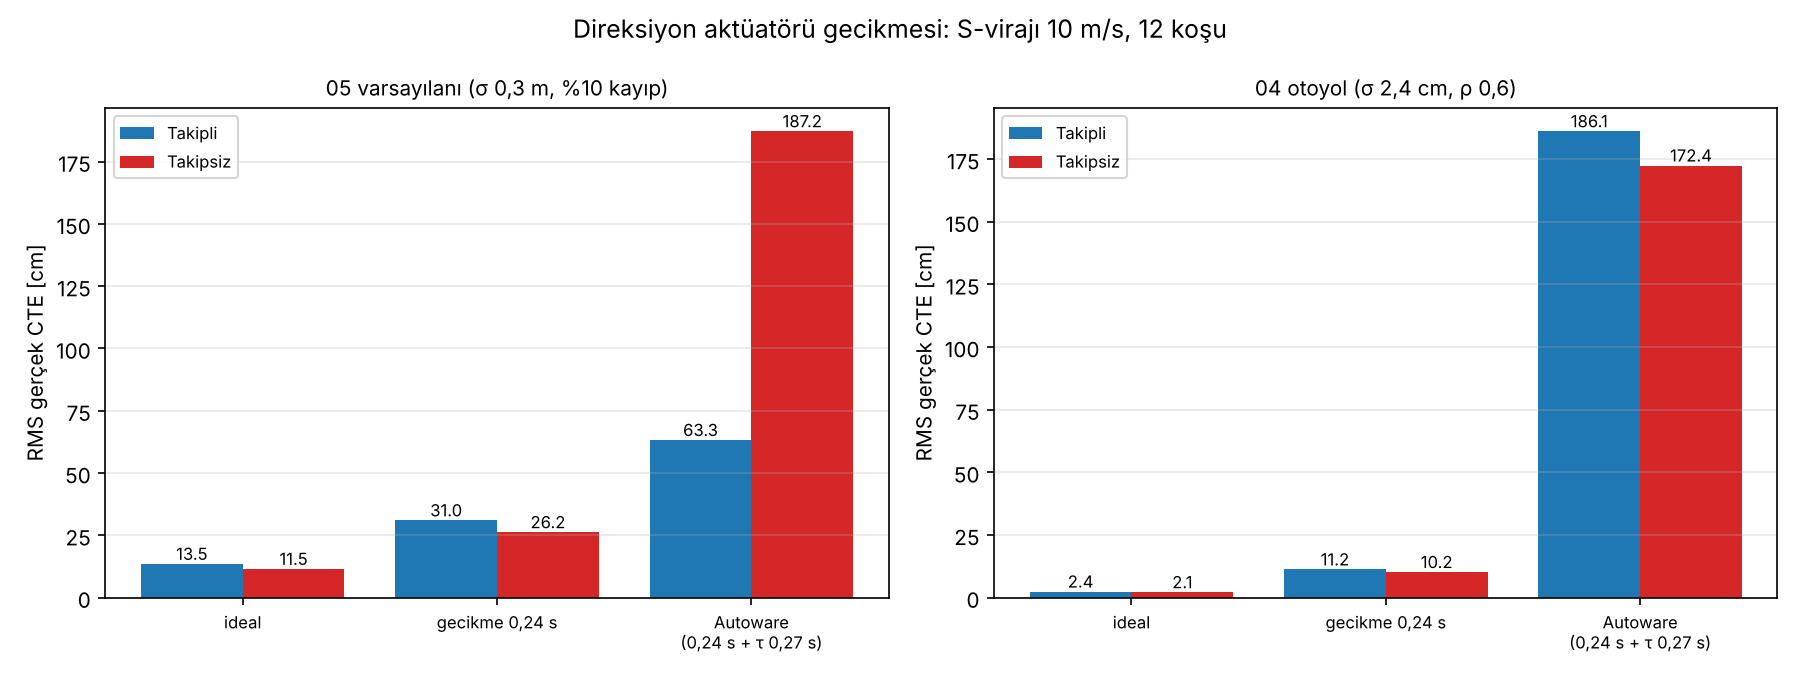
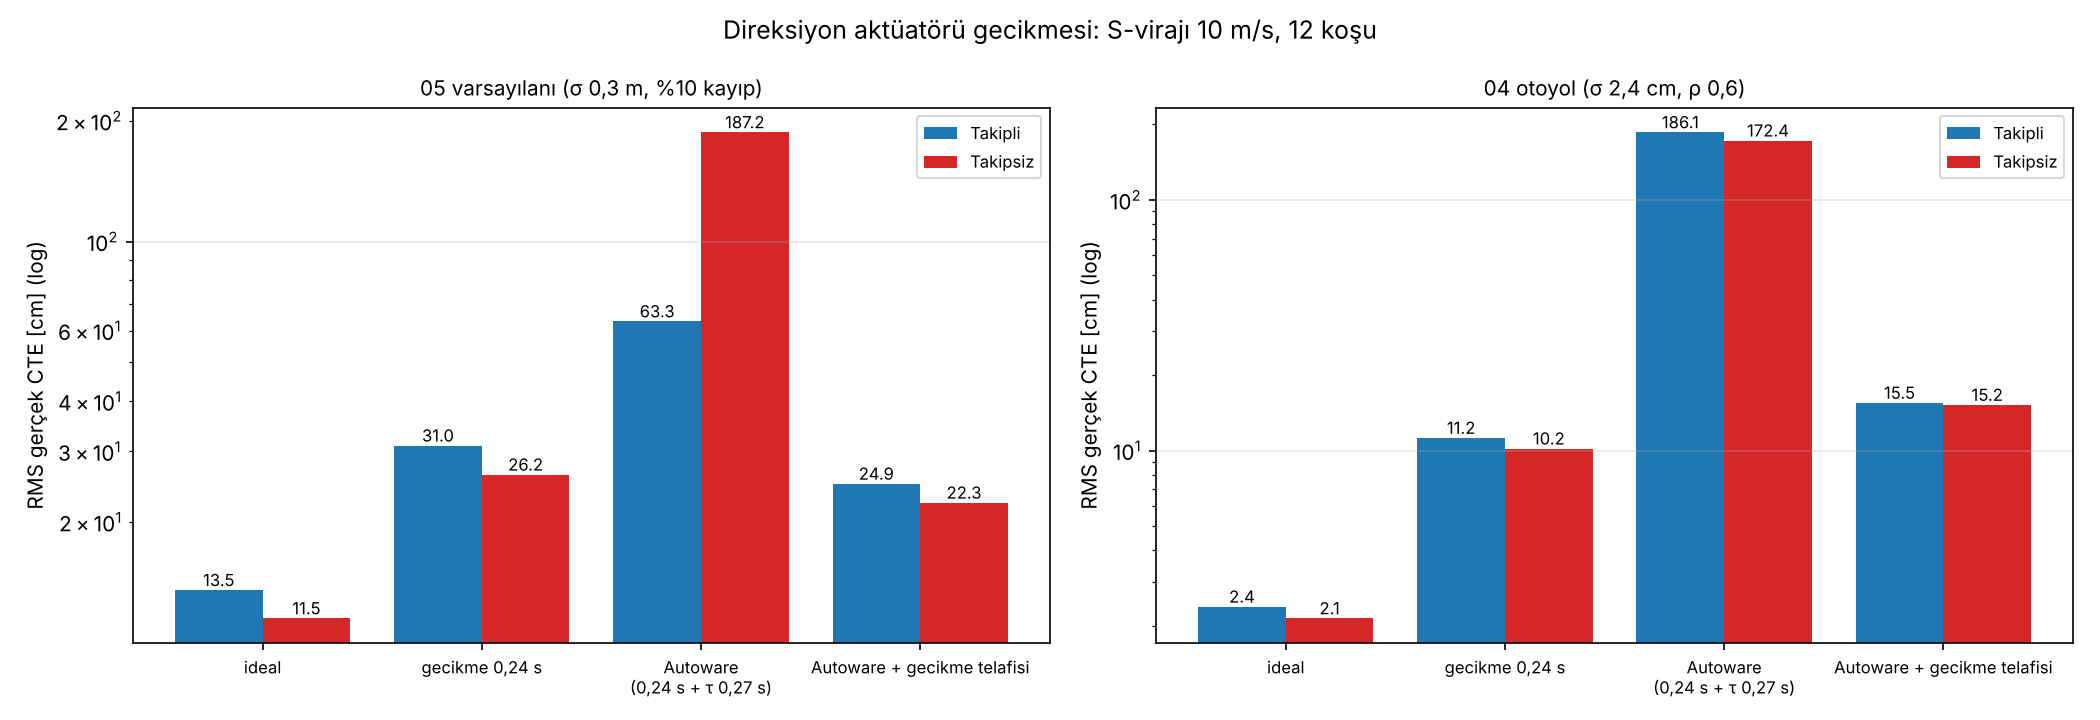
feat(05): delay compensation restores stability with Autoware actuator (8b)
- compensate_delay predicts the lane state through the queued commands and
  the actuator model before computing steering; with it the tracker also
  uses the applied (not commanded) steering
- Autoware actuator: 173 -> 15 cm noise-free, 172-186 -> 15 cm realistic;
  test pins it; actuator_delay.png gains the compensated case
- all next-steps items closed

Claude-Session: https://claude.ai/code/session_01QhUA88VW8MDkroeiZFpYym

diff --git a/05-integration/src/loop.py b/05-integration/src/loop.py
@@ -14,6 +14,17 @@ from perception_sim import NoiseMemory, measure_lane
 TRACKER_Q: tuple[float, float, float] = (0.01, 1e-4, 1e-3)
 
 
+def _predict_through_actuator(x, queue, applied, lag, v, L, dt):
+    """[e_y, e_psi, kappa]'yı kuyruktaki komutlar tekerleğe geçene kadar ileri taşır (küçük açı kinematiği)."""
+    e_y, e_psi, kappa = x
+    a = applied
+    for cmd in queue:
+        a += lag * (cmd - a)
+        e_y += v * e_psi * dt
+        e_psi += (v / L * np.tan(a) - v * kappa) * dt
+    return np.array([e_y, e_psi, kappa])
+
+
 @dataclass
 class IntegrationResult:
     t: np.ndarray
@@ -29,7 +40,7 @@ def run(path, v: float, noise, p_drop: float, use_tracker: bool = True,
         dt: float = 0.05, params: VehicleParams = VehicleParams(),
         tracker_q: tuple[float, float, float] = TRACKER_Q,
         steer_delay: float = 0.0, steer_tau: float = 0.0,
-        tracker_rho: float = 0.0) -> IntegrationResult:
+        tracker_rho: float = 0.0, compensate_delay: bool = False) -> IntegrationResult:
     """dt = kamera periyodu (20 Hz). Araç modeli 01'deki step ile ilerletilir.
 
     use_tracker=False: ölçüm doğrudan kontrolcüye gider; ölçüm yoksa son ölçüm tutulur.
@@ -39,6 +50,10 @@ def run(path, v: float, noise, p_drop: float, use_tracker: bool = True,
     `steer_tau` zaman sabitli birinci derece gecikmeyle tekerleğe geçer. Autoware'in MPC ayarları
     0,24 s ve 0,27 s kullanıyor (mpc.param.yaml; 00 notları). `steer` kaydı komutu, araç uygulananı görür.
     Takip katmanı tahminde komutu kullanır (gerçek açıyı bilmez).
+
+    compensate_delay=True (8b, Smith öngörücüsü fikri): kontrolcü, tahmini durumu kuyruktaki komutlar ve aktüatör
+    modeliyle gecikme kadar ileri taşır ve komutu o andaki duruma göre hesaplar. Aktüatör parametrelerinin bilindiği
+    varsayılır.
     """
     rng = np.random.default_rng(seed)
     memory = NoiseMemory()        # ilişkili gürültü / kümeli kayıp için (LaneNoise.rho, burst_len)
@@ -57,13 +72,18 @@ def run(path, v: float, noise, p_drop: float, use_tracker: bool = True,
     for k in range(n_max + 1):
         z = measure_lane(state, path, rng, noise, p_drop, memory)
         if use_tracker:
-            est = tracker.step(z, v, delta, dt)
+            # Telafi açıkken aktüatör modeli bilindiği için filtre, komutu değil tekerleğe geçen açıyı kullanır;
+            # yoksa gecikmeli bir sistemde tahmin adımı direksiyonun etkisini 0,24 s erken bekler.
+            est = tracker.step(z, v, applied if compensate_delay else delta, dt)
         else:
             if z is not None:
                 held = z
             est = held
+        ctrl_in = np.array(est, dtype=float)
+        if compensate_delay and n_delay > 0:
+            ctrl_in = _predict_through_actuator(ctrl_in, cmd_queue, applied, lag, v, params.wheelbase, dt)
         delta = float(np.clip(
-            lane_keep_steer(est[0], est[1], est[2], v, params.wheelbase, use_feedforward=use_feedforward),
+            lane_keep_steer(ctrl_in[0], ctrl_in[1], ctrl_in[2], v, params.wheelbase, use_feedforward=use_feedforward),
             -params.max_steer, params.max_steer))
 
         ts.append(k * dt)

diff --git a/05-integration/src/actuator_delay.py b/05-integration/src/actuator_delay.py
@@ -1,4 +1,4 @@
-"""B8: direksiyon aktüatörü gecikmesi eklenince takipsiz sistem hâlâ "yanal hatada iyi" mi?
+"""B8 + 8b: direksiyon aktüatörü gecikmesi eklenince takipsiz sistem hâlâ "yanal hatada iyi" mi?
 
 05 notları 1. soruda bir çıkarım yapıyordu: modelde direksiyon ideal olduğu için takipsiz sistem olduğundan iyi
 görünüyor; gecikme eklenince yanal hatası da bozulur. Burada ölçülüyor. Aktüatör: 0,24 s saf gecikme + 0,27 s
@@ -28,13 +28,16 @@ RESULTS = Path(__file__).resolve().parents[1] / "results"
 PATH = s_curve(50.0)
 V = 10.0
 SEEDS = range(12)
-ACTUATORS = {"ideal": (0.0, 0.0), "gecikme 0,24 s": (0.24, 0.0), "Autoware (0,24 s + τ 0,27 s)": (0.24, 0.27)}
+ACTUATORS = {"ideal": (0.0, 0.0, False), "gecikme 0,24 s": (0.24, 0.0, False),
+             "Autoware (0,24 s + τ 0,27 s)": (0.24, 0.27, False),
+             "Autoware + gecikme telafisi": (0.24, 0.27, True)}
 SCENARIOS = {"05 varsayılanı (σ 0,3 m, %10 kayıp)": (LaneNoise(), 0.1),
              "04 otoyol (σ 2,4 cm, ρ 0,6)": (LaneNoise(0.024, np.deg2rad(0.26), 0.0003, rho=0.6), 0.0)}
 
 
-def stats(noise, p_drop, tracker, delay, tau):
-    rs = [run(PATH, V, noise, p_drop=p_drop, use_tracker=tracker, seed=s, steer_delay=delay, steer_tau=tau)
+def stats(noise, p_drop, tracker, delay, tau, comp):
+    rs = [run(PATH, V, noise, p_drop=p_drop, use_tracker=tracker, seed=s, steer_delay=delay, steer_tau=tau,
+              compensate_delay=comp)
           for s in SEEDS]
     return (np.mean([rms(r.cte) for r in rs]), np.median([max_abs(r.cte) for r in rs]),
             np.mean([np.rad2deg(rms(np.diff(r.steer) / np.diff(r.t))) for r in rs]))
@@ -43,11 +46,11 @@ def stats(noise, p_drop, tracker, delay, tau):
 def main():
     table = {}
     for sc, (noise, pd) in SCENARIOS.items():
-        for act, (d, tau) in ACTUATORS.items():
+        for act, (d, tau, comp) in ACTUATORS.items():
             for tr in (True, False):
-                table[(sc, act, tr)] = stats(noise, pd, tr, d, tau)
+                table[(sc, act, tr)] = stats(noise, pd, tr, d, tau, comp)
 
-    fig, axes = plt.subplots(1, len(SCENARIOS), figsize=(12, 4.5))
+    fig, axes = plt.subplots(1, len(SCENARIOS), figsize=(14, 4.8))
     x = np.arange(len(ACTUATORS))
     for ax, sc in zip(axes, SCENARIOS):
         for off, tr, col, name in [(-0.2, True, "tab:blue", "Takipli"), (0.2, False, "tab:red", "Takipsiz")]:
@@ -56,7 +59,8 @@ def main():
             for xi, v in zip(x + off, vals):
                 ax.text(xi, v, f"{v:.1f}", ha="center", va="bottom", fontsize=8)
         ax.set_xticks(x, [a.replace(" (", "\n(") for a in ACTUATORS], fontsize=8)
-        ax.set_ylabel("RMS gerçek CTE [cm]")
+        ax.set_ylabel("RMS gerçek CTE [cm] (log)")
+        ax.set_yscale("log")
         ax.set_title(sc, fontsize=10)
         ax.grid(alpha=0.3, axis="y")
         ax.legend(fontsize=8)

diff --git a/05-integration/tests/test_integration.py b/05-integration/tests/test_integration.py
@@ -41,3 +41,12 @@ def test_feedforward_helps_on_curve(path):
     ff = run(path, 10.0, NOISE, p_drop=0.1, use_feedforward=True, seed=2)
     no_ff = run(path, 10.0, NOISE, p_drop=0.1, use_feedforward=False, seed=2)
     assert rms(ff.cte) < rms(no_ff.cte)
+
+
+def test_delay_compensation_restores_stability(path):
+    """8b: Autoware aktüatörü (0,24 s + 0,27 s) bu kontrolcüyü kararsızlaştırıyor; gecikme telafisi geri getiriyor."""
+    quiet = LaneNoise(1e-9, 1e-9, 1e-9)
+    raw = run(path, 10.0, quiet, p_drop=0.0, steer_delay=0.24, steer_tau=0.27)
+    comp = run(path, 10.0, quiet, p_drop=0.0, steer_delay=0.24, steer_tau=0.27, compensate_delay=True)
+    assert max_abs(raw.cte) > 1.0
+    assert max_abs(comp.cte) < 0.75

diff --git a/05-integration/notes.md b/05-integration/notes.md
@@ -104,6 +104,7 @@ Autoware'in MPC ayarları 0,24 s ve 0,27 s (`mpc.param.yaml`). Varsayılanlar id
 | 0,24 s gecikme | 31,0 / 26,2 cm | 11,2 / 10,2 cm | 9,5 cm |
 | 0,27 s zaman sabiti | | | 6,4 cm |
 | 0,24 s + 0,27 s (Autoware) | 63 / 187 cm | 186 / 172 cm | **173 cm, direksiyon %43 sınırda** |
+| Autoware + gecikme telafisi (8b) | 24,9 / 22,3 cm | 15,5 / 15,2 cm | 14,9 cm |
 
 - **Çıkarımım kısmen yanlış.** Saf gecikmede iki sistem de 2–5 kat kötüleşiyor ve takipsiz sistem yanal hatada yine
   biraz önde. Takip katmanı gecikmeye karşı koruma sağlamıyor.
@@ -113,10 +114,17 @@ Autoware'in MPC ayarları 0,24 s ve 0,27 s (`mpc.param.yaml`). Varsayılanlar id
   dayanmıyor. Gecikme 0,12 s'ye inince kararlı (10 cm).
 - Kararsız durumda takipli/takipsiz farkı (63 / 187 cm) anlamlı bir karşılaştırma değil; sınır çevriminin
   genliği gürültüye bağlı ve düzensiz.
-- Sonuç: gerçek bir araçta önce kontrolcünün aktüatör gecikmesini hesaba katması gerekiyor (gecikme telafisi,
-  düşük kazanç ya da aktüatör modelli MPC). Autoware'in MPC'si `input_delay` parametresini tam bunun için
-  taşıyor; VisionPilot'un uzamsal MPC'si de aynı soruyu cevaplamak zorunda. Gecikme telafisi bu repoda denenmedi
-  (`docs/next-steps.md`, 8b).
+- **Gecikme telafisi (8b) kararlılığı geri getiriyor.** `run(..., compensate_delay=True)`: kontrolcü tahmini durumu
+  kuyruktaki komutlar ve aktüatör modeliyle gecikme kadar ileri taşıyıp komutu o andaki duruma göre hesaplıyor
+  (Smith öngörücüsü fikri). Gürültüsüz 173 → 15 cm, gerçekçi otoyol 172–186 → 15 cm, direksiyon hiç sınıra
+  dayanmıyor. `tests/test_integration.py::test_delay_compensation_restores_stability` bunu sabitliyor.
+- **Takip katmanı da aktüatörü bilmeli.** İlk denemede telafiye rağmen takipli sistem 63 cm'de kaldı: filtre tahmin
+  adımında komut verilen açıyı kullanıyordu, oysa araca o açı 0,24 s sonra ve yavaşça geçiyor. Filtreye tekerleğe
+  geçen açıyı verince 25 cm'ye indi. Gecikmeli bir sistemde kontrolcü ile kestiricinin aynı aktüatör modelini
+  paylaşması gerekiyor.
+- Telafiyle bile ideal aktüatöre göre hata 6 kat (2,4 → 15 cm): telafi yalnız aktüatörün bilinen kısmını geri alıyor.
+  Autoware'in MPC'si `input_delay` ve `vehicle_model_steer_tau`'yu bu yüzden modelinde taşıyor; VisionPilot'un
+  uzamsal MPC'si de aynı soruyu cevaplamak zorunda.
 
 ## 04 ölçümleriyle karşılaştırma
 

diff --git a/docs/next-steps.md b/docs/next-steps.md
@@ -1,6 +1,7 @@
 # Sıradaki Adımlar
 
-**Sıra:** Önce ana TODO listesinde kalanlar (aşağıda "0", tamamlandı). Ek işler (A, B) **en son**, ana liste bitince.
+**Durum (19 Kas 2026):** Ana liste ve ek işler (A, B) tamamlandı. Açık kalan tek şey taslakların gönderilmesi ve
+Medium yazılarının yayımlanması; ikisi de kullanıcının kararı.
 
 ## 0. Ana listeden kalanlar (önce bunlar)
 
@@ -50,5 +51,4 @@ geçerli olduğunu kontrol et.
 7. [x] 04: paralel + intra_op = 1 → 164 ms (6,1 Hz); varsayılan thread ayarıyla paralel daha yavaş
 8. [x] 05: direksiyon gecikmesi ölçüldü (`05-integration/notes.md`, "Direksiyon aktüatörü"). Çıkarım kısmen yanlış;
    asıl bulgu: 0,24 s + 0,27 s ile kontrol döngüsü kararsız.
-8b. [ ] 05: gecikme telafisi (durumu gecikme kadar ileri tahmin et) veya kazanç ayarı ile Autoware aktüatöründe
-   kararlılığı geri getir
+8b. [x] 05: gecikme telafisi kararlılığı geri getiriyor (173 → 15 cm); filtre de uygulanan açıyı kullanmalı.

diff --git a/05-integration/README.md b/05-integration/README.md
@@ -67,7 +67,7 @@ katmanı bunu silemiyor; aynı %30 kayıp 1 s'lik kesintiler hâlinde gelirse ar
 
 ![Gürültünün yapısı](results/noise_structure.png)
 
-Ek: Autoware'in direksiyon gecikmesi değerleriyle (0,24 s + 0,27 s) bu kontrolcü kararsızlaşıyor; takip katmanı bunu çözmüyor.
+Ek: Autoware'in direksiyon gecikmesi değerleriyle (0,24 s + 0,27 s) bu kontrolcü kararsızlaşıyor; takip katmanı bunu çözmüyor, gecikme telafisi çözüyor (173 → 15 cm).
 
 ![Aktüatör gecikmesi](results/actuator_delay.png)
 
